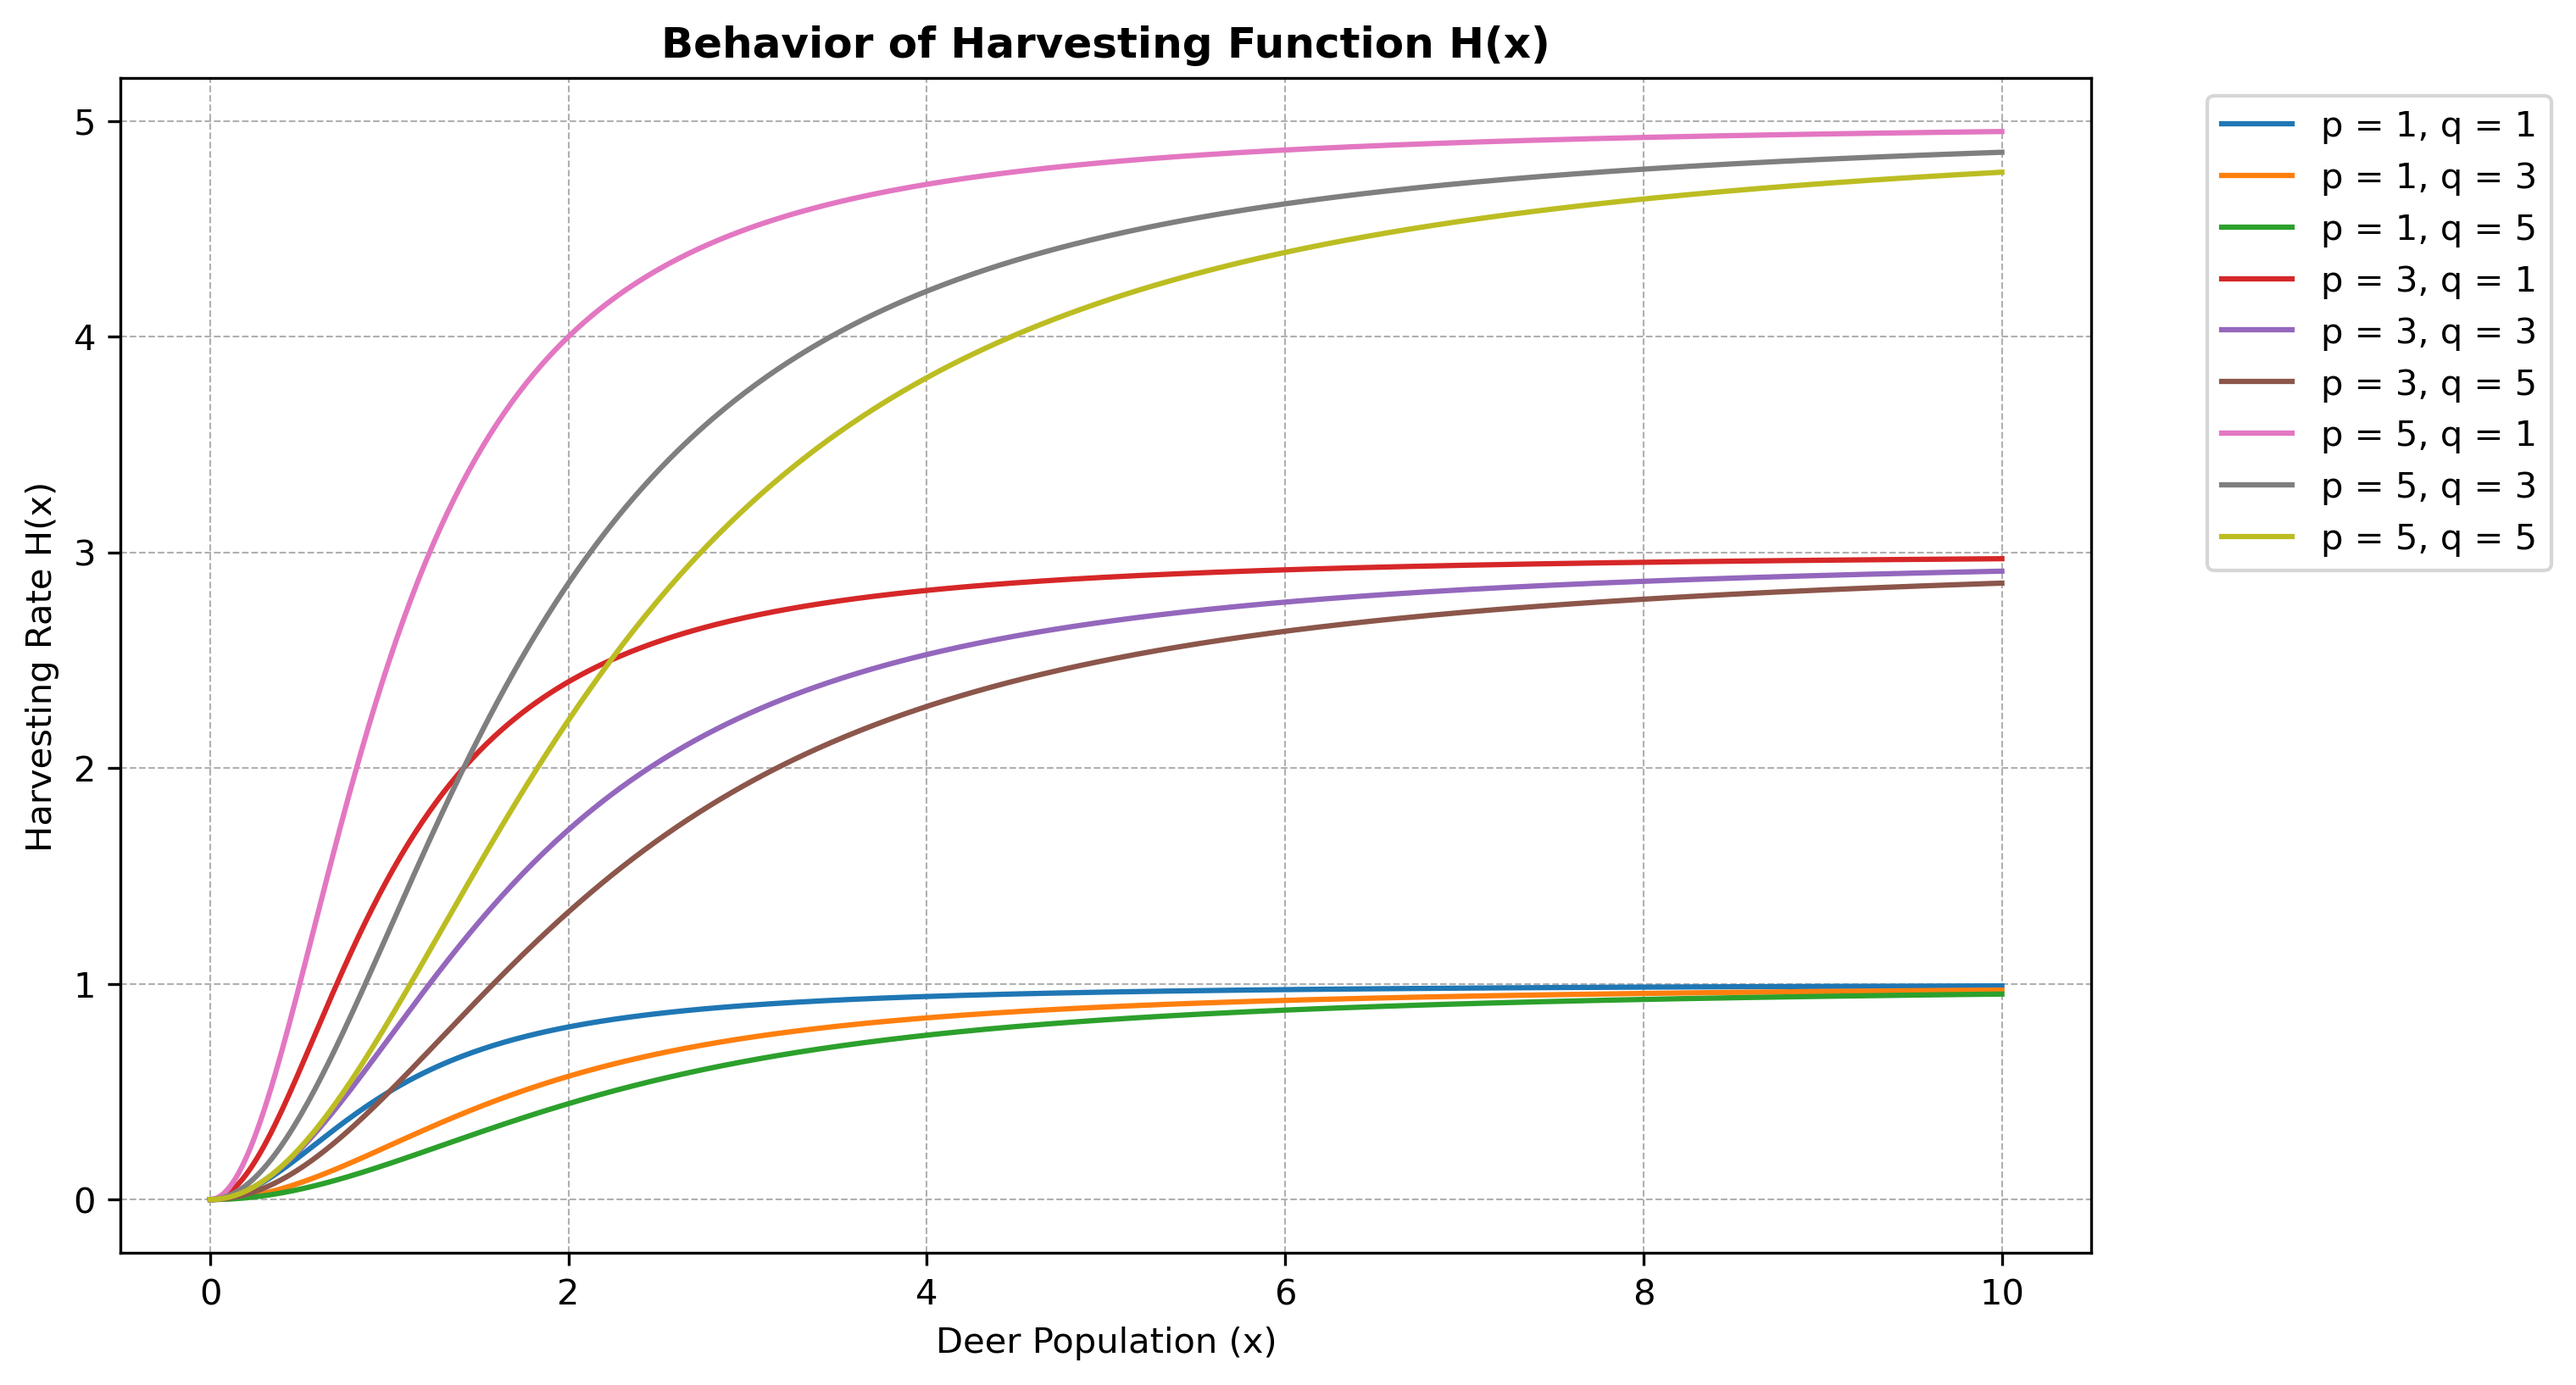
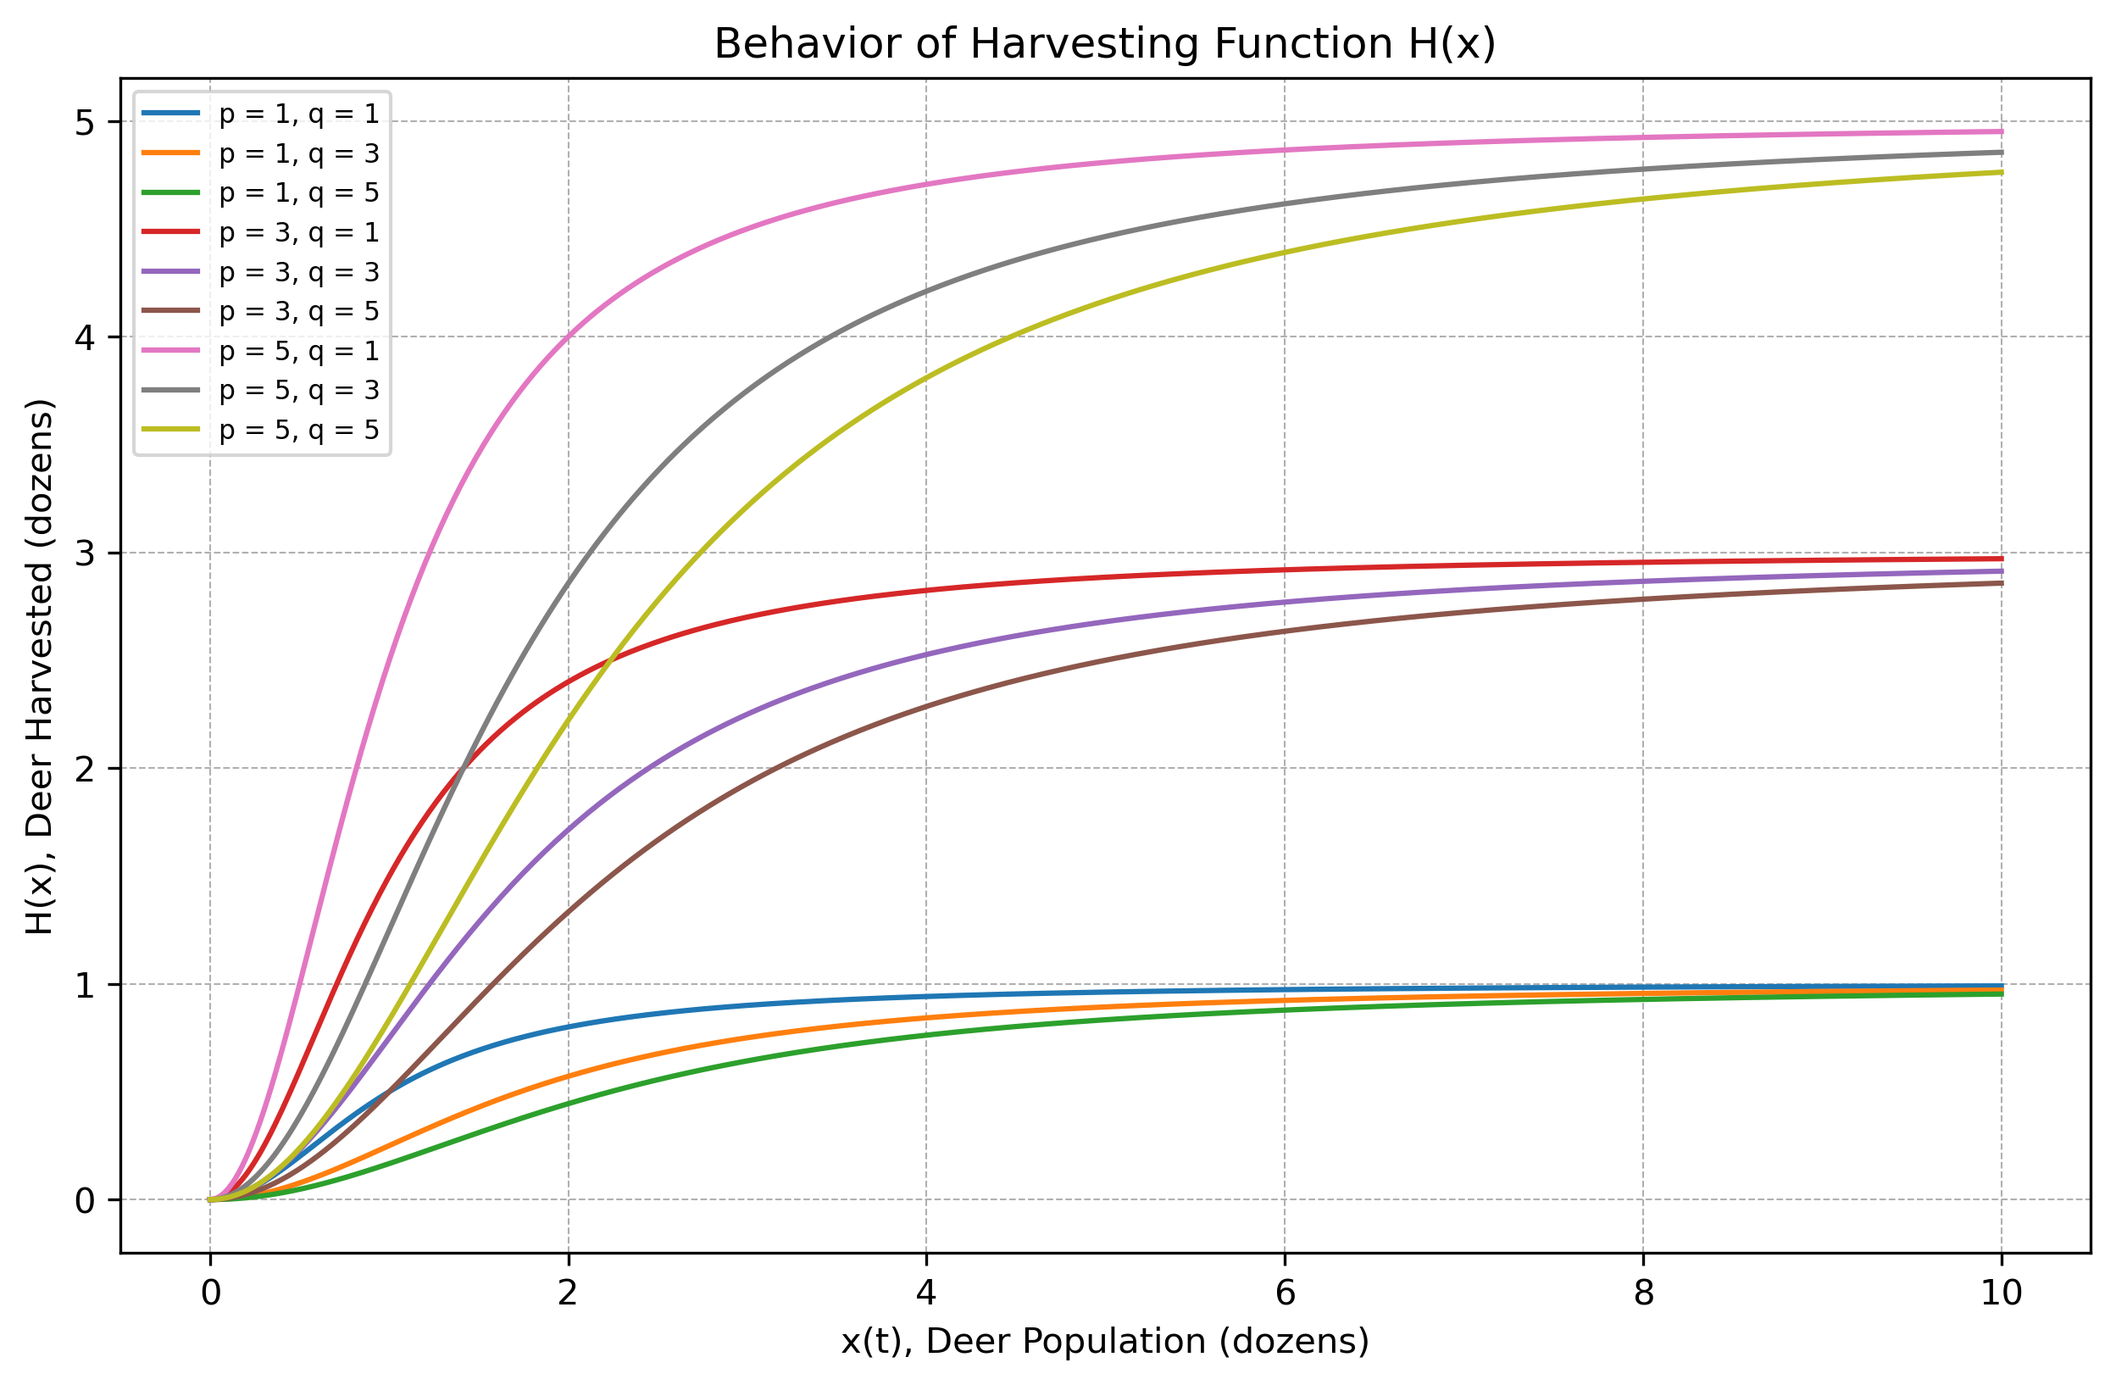
updated a

diff --git a/Code/task_set_a.py b/Code/task_set_a.py
@@ -60,6 +60,7 @@ def plot_absolute_error(t_exact, x_exact, solutions, h_values):
 
     for (t_num, x_num), h in zip(solutions, h_values):
         error = np.abs(np.interp(t_num, t_exact, x_exact) - x_num)
+        print(error[-1])
         plt.semilogy(t_num, error, label=f"h = {h}")
 
     plt.xlabel("Time (years)")
@@ -94,10 +95,10 @@ def task_5_behavior_of_harvesting_function():
         y = harvesting_function(x_values, p, q)
         plt.plot(x_values, y, label=f"p = {p}, q = {q}")
 
-    plt.xlabel("Deer Population (x)")
-    plt.ylabel("Harvesting Rate H(x)")
-    plt.title("Behavior of Harvesting Function H(x)", fontweight='bold')
-    plt.legend(bbox_to_anchor=(1.05, 1), loc='upper left')
+    plt.xlabel("x(t), Deer Population (dozens)")
+    plt.ylabel("H(x), Deer Harvested (dozens)")
+    plt.title("Behavior of Harvesting Function H(x)")
+    plt.legend(loc='upper left', fontsize="7.5")
     plt.grid(True, linestyle='--', linewidth=0.5)
     plt.savefig("plots/task_a_harvesting_function.png", dpi=300, bbox_inches='tight')
     plt.show()
